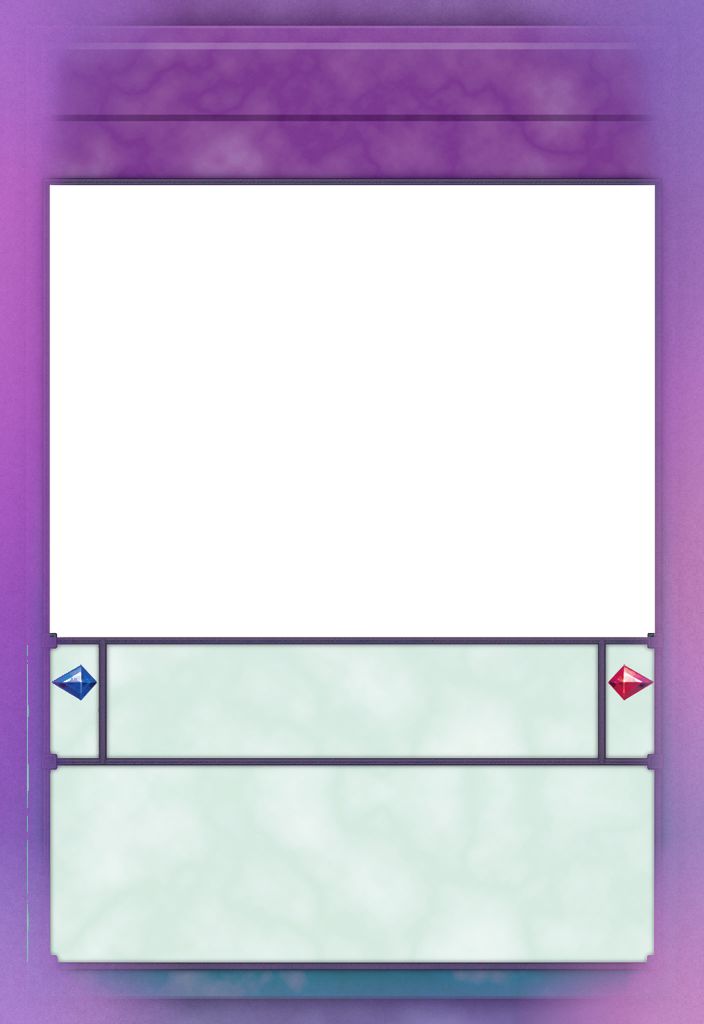
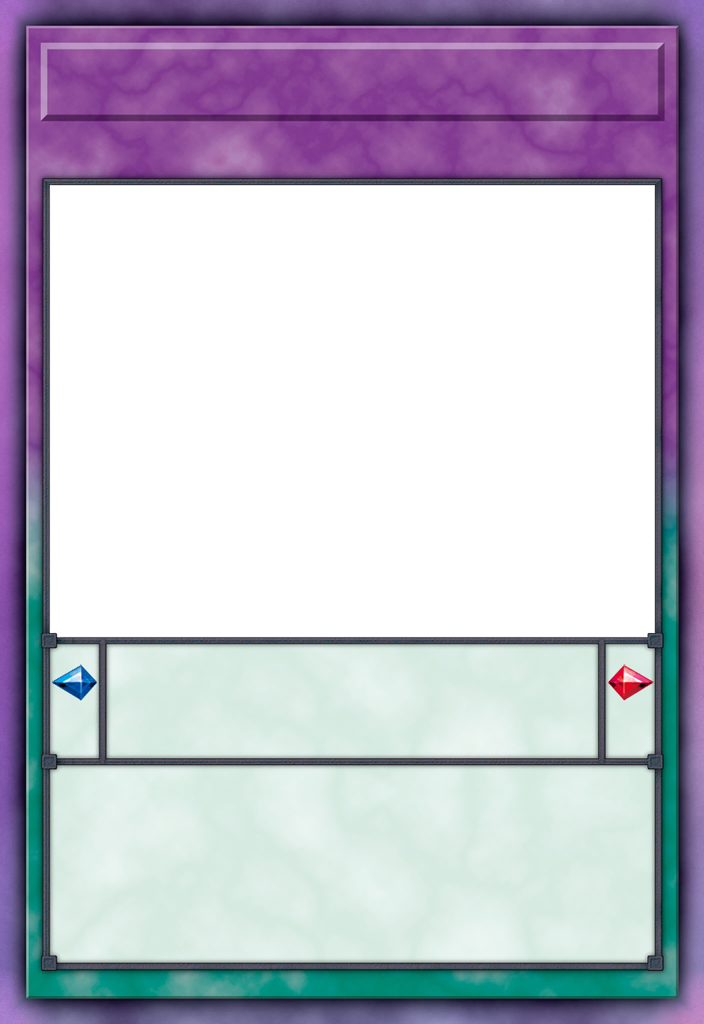
Constrain OF Gradient iridescence to solid outer chrome width.
Limit rim/shaft/corner recolor to the measured ~28px MD border band so footprint matches normal Effect/Spell frames; leave inner plate chrome untouched.

Changed region(s): [[0.0, 0.0, 1.0, 1.0]]

diff --git a/src/Floowan.Core/Imaging/OfGradientBorderComposer.cs b/src/Floowan.Core/Imaging/OfGradientBorderComposer.cs
@@ -10,24 +10,29 @@ namespace Floowan.Core.Imaging;
 /// rim, and lore cream intact so Mirrorjade soft lore compose
 /// (<see cref="OverFrameAutoArtComposer.TextBoxFrameOpacity"/>) continues to work.
 /// <para>
-/// Color intent (user feedback on PR #57): official OF rims are <em>not</em> white
-/// brightness gradients. Linkage is teal/seafoam with rainbow shimmer (pink, yellow,
-/// purple, cyan). Magician of Black Chaos uses cyan/teal corner light. Chaos Soldier
-/// shafts stay chromatic pale blue — never pure white screen.
-/// Multi-hue is produced by sampling a type-specific HSV stop table from the perimeter
-/// angle (atan2 from canvas center) and keeping chroma; no white screen-blend.
+/// Color: Linkage-style teal/seafoam with rainbow shimmer (perimeter-angle HSV stops);
+/// Magician cyan/teal corners; Chaos Soldier chromatic pale-blue shafts — not white glow.
+/// </para>
+/// <para>
+/// Width (PR #57): iridescence is constrained to the solid template's outer chrome band
+/// (~<see cref="OuterRimPx"/> px from the canvas edge, measured ~26–28px on MD
+/// <c>card_frame*</c>). Inner plate chrome (name bar / type body) is left alone so the
+/// visual border footprint matches normal Effect/Spell/etc. frames.
 /// </para>
 /// </summary>
 public static class OfGradientBorderComposer
 {
-    /// <summary>Outer rim band (px from canvas edge) where iridescence is strongest.</summary>
-    public const int OuterRimPx = 64;
+    /// <summary>
+    /// Outer chrome thickness matching solid MD frames (left rim ends ~x=26–28 before
+    /// type-colored plate). Iridescence only applies inside this band from any edge.
+    /// </summary>
+    public const int OuterRimPx = 28;
 
-    /// <summary>Side light-shaft width (Chaos Soldier–style chromatic vertical glow).</summary>
-    public const int LightShaftPx = 78;
+    /// <summary>Side shaft width — capped to the same outer chrome band as the rim.</summary>
+    public const int LightShaftPx = 28;
 
-    /// <summary>Corner radial glow radius (Magician of Black Chaos–style cyan/teal).</summary>
-    public const float CornerRadiusPx = 190f;
+    /// <summary>Corner glow radius — kept tight so corners don't bloom into the plate.</summary>
+    public const float CornerRadiusPx = 56f;
 
     /// <summary>
     /// Builds an OF-gradient frame from a solid template. Caller owns the returned image.
@@ -72,16 +77,23 @@ public static class OfGradientBorderComposer
                 if (LooksLikeGoldRim(src, artWindow, loreCream, x, y))
                     continue;
 
+                // Only recolor the solid template's outer chrome band — same footprint
+                // as normal Effect/Spell borders. Inner plate chrome stays untouched.
                 var edgeDist = MinEdgeDistance(x, y, w, h);
+                if (edgeDist >= OuterRimPx)
+                    continue;
+
                 var rimT = EaseOut01(1f - Math.Clamp(edgeDist / (float)OuterRimPx, 0f, 1f));
                 var shaftT = SideLightShaftStrength(x, w) * palette.ShaftBoost;
                 var cornerT = CornerGlowStrength(x, y, w, h) * palette.CornerBoost;
-                var marginT = Math.Clamp(rimT * 0.55f + shaftT * 0.55f + cornerT * 0.45f, 0f, 1f);
+                // Corners/shafts must not pull pixels outside the outer chrome band.
+                var bandGate = rimT; // 1 at edge → 0 at OuterRimPx
+                shaftT *= bandGate;
+                cornerT *= bandGate;
+                var marginT = Math.Clamp(0.40f * rimT + 0.35f * shaftT + 0.35f * cornerT, 0f, 1f);
 
-                var mix = Math.Clamp(
-                    palette.BodyTint + (1f - palette.BodyTint) * marginT * palette.ReplaceBoost,
-                    0f,
-                    0.97f);
+                // No BodyTint on the plate — mix is purely from outer-band strength.
+                var mix = Math.Clamp(marginT * palette.ReplaceBoost, 0f, 0.95f);
                 if (mix < 0.08f)
                     continue;
 

diff --git a/tests/Floowan.Core.Tests/OfGradientBorderComposerTests.cs b/tests/Floowan.Core.Tests/OfGradientBorderComposerTests.cs
@@ -107,6 +107,11 @@ public class OfGradientBorderComposerTests
             $"rim must stay multi-hue/chromatic, got {derivedCorner} (range {maxC - minC})");
         Assert.False(derivedCorner.R > 245 && derivedCorner.G > 245 && derivedCorner.B > 245,
             $"rim must not clip to white, got {derivedCorner}");
+
+        // Inner plate (beyond solid outer chrome ~28px) must stay the solid template color.
+        var plateX = OfGradientBorderComposer.OuterRimPx + 12;
+        var plateY = solid.Height / 2;
+        Assert.Equal(solid[plateX, plateY], derived[plateX, plateY]);
     }
 
     [Fact]
